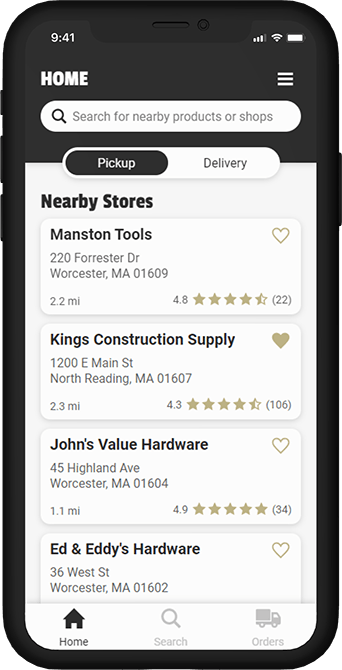
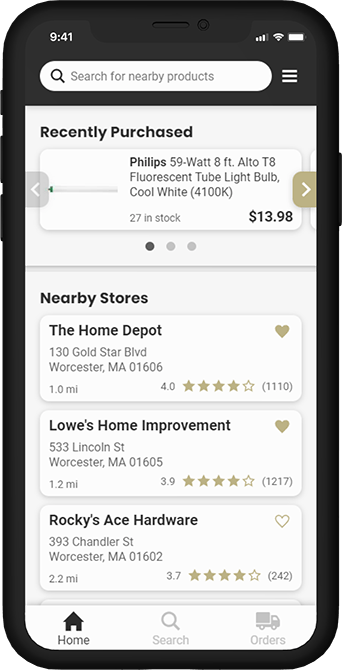
Update Pallyt App, add Pallyt Website V2

Changed region(s): [[0.0585, 0.0896, 0.9357, 0.9851], [0.731, 0.0299, 0.848, 0.0597], [0.1462, 0.0299, 0.2339, 0.0597]]

diff --git a/src/data/development.ts b/src/data/development.ts
@@ -29,18 +29,42 @@ export interface DevelopmentEntry {
 
 const DevelopmentEntries: DevelopmentEntry[] = [
   {
+    year: 2022,
+    title: 'Pallyt Website V2',
+    subtitle: 'Introducing Pallyt to contractors, suppliers, and investors.',
+    content: {
+      key: 'PW2',
+      count: 8,
+      type: ContentType.WEB,
+      color: '#bdb282'
+    },
+    details: {
+      client: 'Pallyt Technologies Inc.',
+      role: 'Co-Founder & CTO',
+      technologies: ['HTML', 'SCSS', 'Typescript', 'React', 'Github', 'Figma', 'Amazon Web Services'],
+      platform:
+          'The second version of the Pallyt website is the new, publicly-facing website for Pallyt, designed to promote the startup, build local interest, and find new partners. ' +
+          'This website provides information for three target audiences: construction contractors as the primary user for the Pallyt App, construction suppliers as prospective partners of Pallyt, and angel investors as potential early-stage investors for Pallyt.',
+      work:
+          'During my final 7-week term at WPI, I carried out a complete overhaul of the Pallyt website, improving its aesthetic, bringing it up-to-date, and converting the previous Vue web app to React. ' +
+          'I created new content that would specifically target the intended audiences of the website, creating a space to inform users, partners, and possible investors. ' +
+          'For implemention, I built a new React web app from the ground up using Next.js and deployed it as a static website using Amazon Web Services.',
+      demo: 'https://pallyt.com'
+    }
+  },
+  {
     year: 2021,
     title: 'Pallyt App',
     subtitle: 'Putting construction materials at the fingertips of consumers.',
     content: {
       key: 'PA',
-      count: 5,
+      count: 7,
       type: ContentType.MOBILE,
       color: '#bdb282'
     },
     details: {
-      client: 'Pallyt Technologies',
-      role: 'Head of Technology',
+      client: 'Pallyt Technologies Inc.',
+      role: 'Co-Founder & CTO',
       technologies: ['HTML', 'SCSS', 'Typescript', 'Vue', 'Github', 'Figma', 'Amazon Web Services'],
       platform:
         'Pallyt is an app designed to make the location and delivery of construction materials as efficient as possible. ' +
@@ -55,7 +79,7 @@ const DevelopmentEntries: DevelopmentEntry[] = [
   },
   {
     year: 2021,
-    title: 'Pallyt Website',
+    title: 'Pallyt Website V1',
     subtitle: 'Promoting and informing the world about Pallyt.',
     content: {
       key: 'PW',
@@ -64,18 +88,17 @@ const DevelopmentEntries: DevelopmentEntry[] = [
       color: '#bdb282'
     },
     details: {
-      client: 'Pallyt Technologies',
-      role: 'Head of Technology',
+      client: 'Pallyt Technologies Inc.',
+      role: 'Co-Founder & CTO',
       technologies: ['HTML', 'SCSS', 'Typescript', 'Vue', 'Github', 'Figma', 'Amazon Web Services'],
       platform:
-        'The Pallyt website is the forward-facing platform for the startup Pallyt Technologies. ' +
-        "The website is used to explain what the Pallyt app is, show the team involved in making Pallyt a reality, and keep people informed on the team's progress. " +
-        'Additionally, the website helps connect Pallyt with interested parties through contact information and a newsletter mailing list.',
+        'The first version of the Pallyt website was the forward-facing platform for Pallyt, an emerging startup. ' +
+        "The website was used to explain what the Pallyt app is, show the team involved in making Pallyt a reality, and keep people informed on the team's progress. " +
+        'Additionally, the website helped connect Pallyt with interested parties through contact information and a newsletter mailing list.',
       work:
         'In just a few weeks, I designed the Pallyt website in Figma and developed it as a Vue web app. ' +
         'With assistance from two marketing consultants, I created content that would professionally brand Pallyt and make people feel connected with the venture. ' +
-        'By integrating with a simple Amazon Web Services back-end, I added the ability to collect email addresses for the Pallyt mailing list.',
-      demo: 'https://pallyt.com'
+        'By integrating with a simple Amazon Web Services back-end, I added the ability to collect email addresses for the Pallyt mailing list.'
     }
   },
   {
